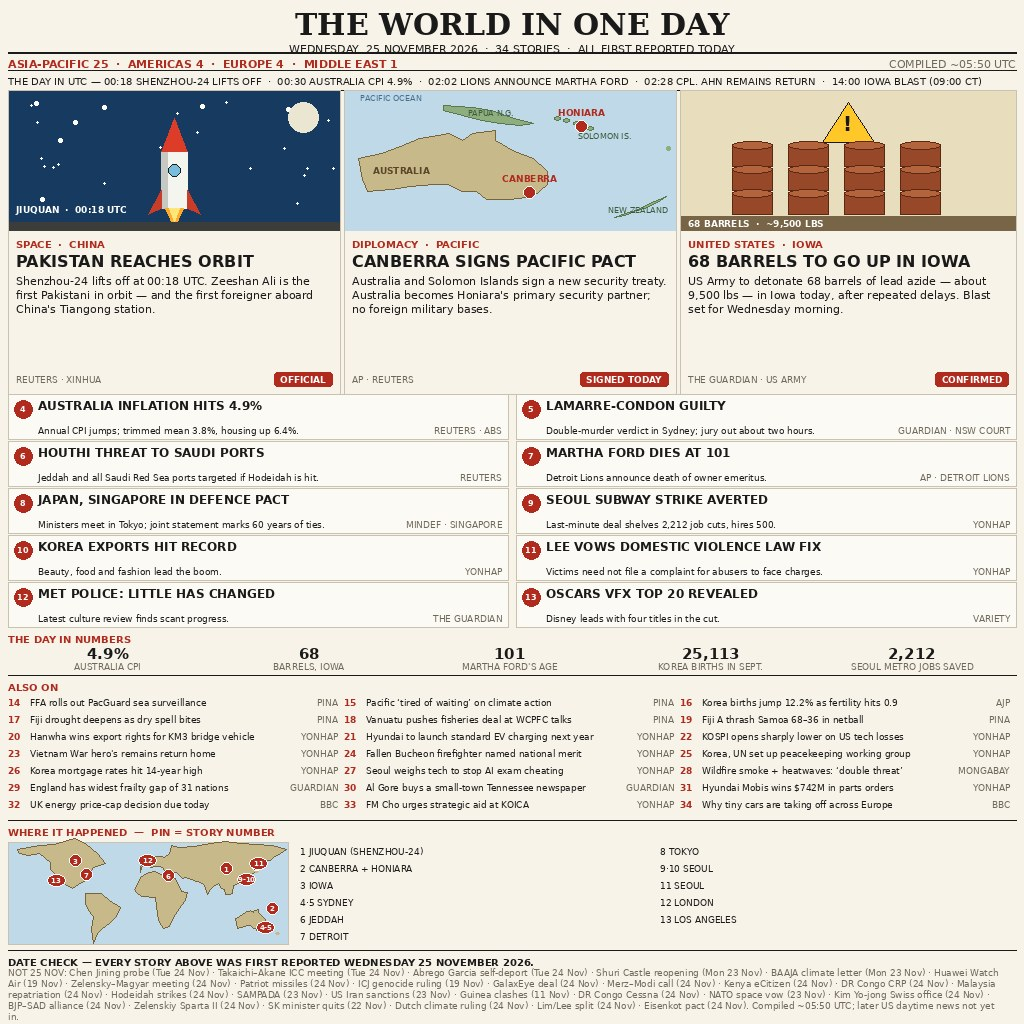
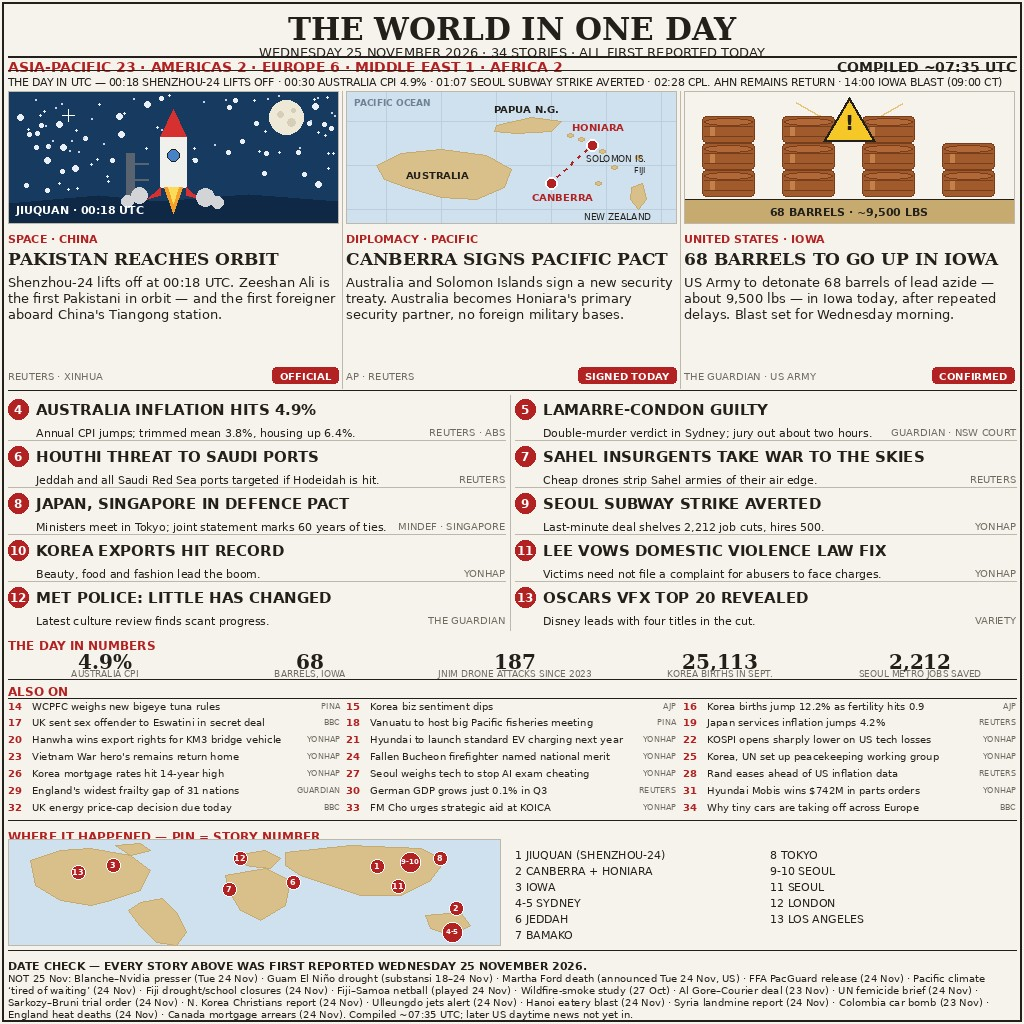
v6: replace #30 + #19 (Goldfish B1)

Changed region(s): [[0.0, 0.3438, 1.0, 1.0], [0.0, 0.0, 1.0, 0.3125]]

diff --git a/main.py b/main.py
@@ -1,15 +1,23 @@
-"""news-image-20261125 entry program (v4).
+"""news-image-20261125 entry program (v6).
 
 Copies the pre-built newspaper image (entry.png, 1024x1024) to the
 output directory as entry.png, verifying integrity (size, SHA-256 and
 image magic bytes) before and after the copy.
 
-v4: micro-fix of the 4 remaining Goldfish-r3 date-fail items (#11, #26,
-#27, #33) plus the #31 KOSPI duplicate-theme major (M5). All 5
-replacements are primary-verified as first reported Wed 25 Nov 2026
-(Yonhap). This program pins the v4 fingerprint (EXPECTED_SHA256 /
-EXPECTED_SIZE) and refuses to ship any other bytes, so a stale v3
-image can never be submitted by mistake.
+v6: Goldfish-r5 micro-fix. Of the v5 tally, #30 Blanche-Nvidia FAILED
+(presser Tue 24 Nov; BBC published 2026-11-24T21:45:46Z) and #19 Guam
+El Nino was grey-leaning-fail (substance 18-24 Nov); both replaced
+with primary-verified 25 Nov stories (#30 German GDP +0.1% in Q3 /
+Reuters 2026-11-25T07:01:40Z; #19 Japan services inflation +4.2% /
+Reuters, slug 2026-11-25). Region bar rebalanced to APAC 23, AMERICAS
+2, EUROPE 6, MIDDLE EAST 1, AFRICA 2 (= 34); #15 headline softened
+("first in 5 months" dropped — not in the AJP body); map pins 9-10 /
+4-5 widened so their labels fit; footer exclusions updated with the
+v6 research (Blanche, Guam, UN femicide brief, Sarkozy-Bruni trial
+order, N. Korea Christians report). Numbers strip untouched (no
+figure came from #19/#30). This program pins the v6 fingerprint
+(EXPECTED_SHA256 / EXPECTED_SIZE) and refuses to ship any other
+bytes, so a stale v5 image can never be submitted by mistake.
 
 Deterministic: the output bytes are exactly the repository bytes, so
 both grader runs write identical files. Standard library only, no
@@ -38,16 +46,21 @@ OUTPUT_NAME = "entry.png"
 EXPECTED_WIDTH = 1024
 EXPECTED_HEIGHT = 1024
 
-# v4 pinned fingerprint (entry.png rebuilt 25 Nov 2026 ~05:50 UTC after the
-# micro-fix of the 4 remaining Goldfish-r3 date-fail items + the #31
-# KOSPI duplicate). Any other bytes are rejected.
-EXPECTED_SIZE = 272076
[1 lines of base64/hex data omitted]
+# v6 pinned fingerprint (entry.png rebuilt 25 Nov 2026 ~07:35 UTC after the
+# Goldfish-r5 micro-fix). Any other bytes are rejected.
+EXPECTED_SIZE = 325798
[1 lines of base64/hex data omitted]
 
 # Known stale fingerprints: (size, sha256, version). If the source image
 # matches one of these, the error names the stale version explicitly so a
-# wrong-version image is never silently shipped as v4.
+# wrong-version image is never silently shipped as v6.
 PREVIOUS_FINGERPRINTS = (
+    (322851,
[1 lines of base64/hex data omitted]
+     "v5"),
+    (272076,
[1 lines of base64/hex data omitted]
+     "v4"),
     (276540,
[1 lines of base64/hex data omitted]
      "v3"),
@@ -159,11 +172,11 @@ def main(argv=None):
         for old_size, old_sha, old_ver in PREVIOUS_FINGERPRINTS:
             if src_size == old_size and src_sha == old_sha:
                 print("error: source is stale %s (%d bytes sha256 %s); "
-                      "expected v4 %d bytes sha256 %s"
+                      "expected v6 %d bytes sha256 %s"
                       % (old_ver, old_size, old_sha,
                          EXPECTED_SIZE, EXPECTED_SHA256), file=sys.stderr)
                 return 1
-        print("error: source fingerprint mismatch: expected v4 %d bytes "
+        print("error: source fingerprint mismatch: expected v6 %d bytes "
               "sha256 %s" % (EXPECTED_SIZE, EXPECTED_SHA256), file=sys.stderr)
         return 1
 
@@ -171,7 +184,7 @@ def main(argv=None):
         print("entry.png: %d bytes" % src_size)
         print("sha256: %s" % src_sha)
         print("dimensions: %dx%d" % src_dims)
-        print("fingerprint: matches pinned v4 (size + sha256)")
+        print("fingerprint: matches pinned v6 (size + sha256)")
         print("verified: size + sha256 + magic + dimensions OK (no copy)")
         return 0
 
